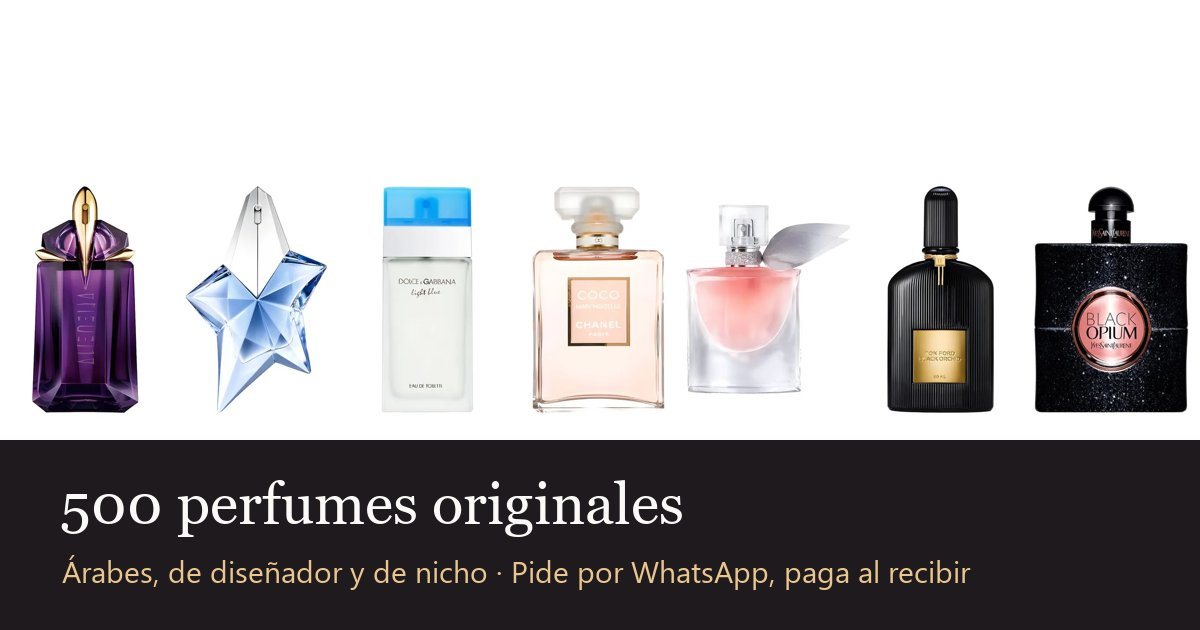
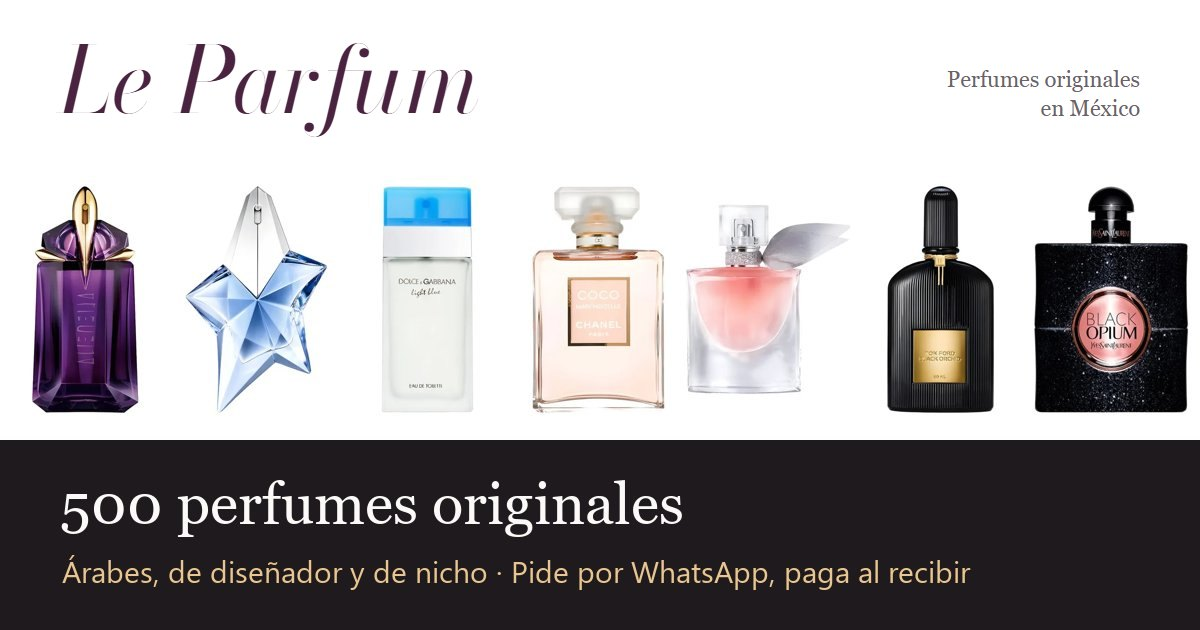
Publicar tienda 2026-11-26 10:51

Changed region(s): [[0.1542, 0.0603, 0.4008, 0.2111], [0.8017, 0.1206, 0.9558, 0.181], [0.0308, 0.0603, 0.1233, 0.181]]

diff --git a/tienda.js b/tienda.js
@@ -13,14 +13,20 @@
     Especiada: '#A8553C', 'Ámbar': '#B97A2B', 'Acuática': '#6AA3C4', Oud: '#5A3A2E' };
   const PARA = { mujer: 'Para ella', hombre: 'Para él', unisex: 'Para todos' };
   const CATEGORIAS = [['todos', 'Todos'], ['mujer', 'Mujer'], ['hombre', 'Hombre'], ['unisex', 'Unisex'],
-    ['arabe', 'Árabes'], ['disenador', 'Diseñador'], ['nicho', 'Nicho'], ['ofertas', 'Ofertas']];
+    ['arabe', 'Árabes'], ['disenador', 'Diseñador'], ['nicho', 'Nicho'], ['ofertas', 'Ofertas'], ['favoritos', '♥ Guardados']];
 
   let catalogo = [], visibles = POR_PAGINA;
   const f = { q: '', categoria: 'todos', marcas: [], familias: [], concentraciones: [], tamanos: [], min: '', max: '', soloDisponibles: false, orden: 'destacados' };
   let carrito = [];
   try { carrito = JSON.parse(localStorage.getItem('tienda_carrito') || '[]'); } catch { carrito = []; }
+  // Favoritos: el visitante marca con ♥ los que le gustan y los vuelve a encontrar en la pestaña «Guardados»,
+  // aunque cierre la página (se guardan en su propio navegador, no en ningún servidor).
+  let favs;
+  try { favs = new Set(JSON.parse(localStorage.getItem('tienda_favoritos') || '[]').map(String)); } catch { favs = new Set(); }
 
   const nombreCompleto = (p) => `${p.marca} ${p.nombre}`;
+  const corazon = (p) => `<button class="fav" data-fav="${p.id}" aria-pressed="${favs.has(String(p.id))}" aria-label="Guardar ${esc(nombreCompleto(p))} en favoritos">
+    <svg viewBox="0 0 24 24" aria-hidden="true"><path d="M12 20s-7-4.4-7-10a4 4 0 0 1 7-2.6A4 4 0 0 1 19 10c0 5.6-7 10-7 10z"/></svg></button>`;
   const waLink = (texto) => `https://wa.me/${WA}?text=${encodeURIComponent(texto)}`;
 
   // ── Imagen o frasco dibujado si todavía no hay foto ─────────────────────
@@ -53,9 +59,22 @@
     casillas('#f-familias', 'familias', 'familia', unicos('familia').sort());
     casillas('#f-concentraciones', 'concentraciones', 'concentracion', unicos('concentracion').sort());
     casillas('#f-tamanos', 'tamanos', 'ml', unicos('ml').sort((a, b) => a - b), (v) => v + ' ml');
-    const hay = (c) => c === 'todos' || catalogo.some((p) => p.genero === c || p.tipo === c || (c === 'ofertas' && p.precio_antes > p.precio));
+    armarPestanas();
+  }
+  function armarPestanas() {
+    const hay = (c) => c === 'todos' || c === f.categoria || (c === 'favoritos' ? favs.size > 0
+      : catalogo.some((p) => p.genero === c || p.tipo === c || (c === 'ofertas' && p.precio_antes > p.precio)));
     $('#categorias').innerHTML = CATEGORIAS.filter(([v]) => hay(v)).map(([v, t]) =>
-      `<button class="pestana${v === f.categoria ? ' activa' : ''}" data-cat="${v}" aria-pressed="${v === f.categoria}">${t}</button>`).join('');
+      `<button class="pestana${v === f.categoria ? ' activa' : ''}" data-cat="${v}" aria-pressed="${v === f.categoria}">${t}${v === 'favoritos' ? ` (${favs.size})` : ''}</button>`).join('');
+  }
+  function alternarFav(id) {
+    id = String(id);
+    if (favs.has(id)) { favs.delete(id); aviso('Quitado de tus guardados'); } else { favs.add(id); aviso('Guardado: lo encuentras en la pestaña ♥ Guardados'); }
+    try { localStorage.setItem('tienda_favoritos', JSON.stringify([...favs])); } catch { /* sin espacio: siguen en memoria */ }
+    $$(`[data-fav="${id}"]`).forEach((b) => b.setAttribute('aria-pressed', favs.has(id)));
+    if (f.categoria === 'favoritos' && !favs.size) f.categoria = 'todos';
+    armarPestanas();
+    if (f.categoria === 'favoritos' || f.categoria === 'todos') pintar();
   }
 
   function activos() {
@@ -73,7 +92,7 @@
   function tarjeta(p) {
     const d = L.disponibilidad(p);
     const oferta = p.precio_antes > p.precio;
-    return `<article class="tarjeta" data-id="${p.id}">
+    return `<article class="tarjeta" data-id="${p.id}">${corazon(p)}
       <button class="foto" data-ver="${p.id}" aria-label="Ver ${esc(nombreCompleto(p))}">${imagen(p)}
         ${oferta ? `<span class="sello">Oferta</span>` : ''}</button>
       <div class="datos-tarjeta">
@@ -89,7 +108,9 @@
   }
 
   function pintar() {
-    const lista = L.filtrar(catalogo, f);
+    const lista = f.categoria === 'favoritos'
+      ? L.filtrar(catalogo, { ...f, categoria: 'todos' }).filter((p) => favs.has(String(p.id)))
+      : L.filtrar(catalogo, f);
     $('#conteo').textContent = `${lista.length} ${lista.length === 1 ? 'perfume' : 'perfumes'}`;
     $('#ver-resultados').textContent = `Ver ${lista.length} ${lista.length === 1 ? 'perfume' : 'perfumes'}`;
     $('#rejilla').innerHTML = lista.slice(0, visibles).map(tarjeta).join('');
@@ -97,6 +118,9 @@
     $('#mas').hidden = quedan <= 0;
     $('#mas').textContent = `Mostrar más (${quedan > 0 ? quedan : 0} restantes)`;
     $('#vacio').hidden = lista.length > 0;
+    $('#vacio-texto').textContent = f.categoria === 'favoritos'
+      ? 'Ninguno de tus guardados coincide con estos filtros.'
+      : 'Prueba con otra palabra o quita algún filtro. Si buscas uno que no está, escríbenos y lo conseguimos.';
     $$('.pestana').forEach((b) => { const a = b.dataset.cat === f.categoria; b.classList.toggle('activa', a); b.setAttribute('aria-pressed', a); });
     $$('.tira').forEach((b) => { const a = f.familias.includes(b.dataset.familia); b.classList.toggle('activa', a); b.setAttribute('aria-pressed', a); });
     activos();
@@ -113,7 +137,7 @@
       .sort(L.ORDENES.populares).slice(0, 4);
     const detalles = [p.concentracion, p.ml && p.ml + ' ml', PARA[p.genero], p.anio && `Lanzado en ${p.anio}`].filter(Boolean);
     $('#ficha-contenido').innerHTML = `
-      <div class="ficha-foto">${imagen(p, true)}</div>
+      <div class="ficha-foto">${imagen(p, true)}${corazon(p)}</div>
       <div class="ficha-texto">
         <p class="f-marca">${esc(p.marca)}</p>
         <h2 id="ficha-titulo">${esc(p.nombre)}</h2>
@@ -206,6 +230,53 @@
     } finally { btn.disabled = false; }
   }
 
+  // ── «¿Qué perfume me va?»: tres preguntas que se traducen a los mismos filtros del catálogo ─────
+  // No inventa nada: cada respuesta pone un filtro que el visitante después ve (y puede quitar) en el catálogo.
+  const OLORES = [
+    ['Flores', 'Rosa, jazmín, flor de azahar', ['Floral']],
+    ['Dulce', 'Vainilla, caramelo, chocolate', ['Dulce']],
+    ['Fresco y limpio', 'Como recién bañado: limón, lavanda, menta', ['Cítrica', 'Aromática', 'Fresca']],
+    ['Cálido, para la noche', 'Ámbar, especias, incienso', ['Oriental']],
+    ['Madera y cuero', 'Sándalo, cedro, cuero, oud', ['Amaderada', 'Cuero y oud']],
+    ['Frutal', 'Durazno, frutos rojos, piña', ['Frutal']],
+  ];
+  const PRESUPUESTOS = [['Hasta $1,999', '', 1999], ['De $2,000 a $3,000', 2000, 3000], ['Más de $3,000', 3000, ''], ['Me da igual', '', '']];
+  const quiz = { paso: 0, categoria: 'todos', familias: [], min: '', max: '' };
+  function pintarQuiz() {
+    const familiasHay = new Set(catalogo.map((p) => p.familia));
+    const pasos = [
+      ['¿Para quién es?', [['Para ella', 'mujer'], ['Para él', 'hombre'], ['Me da igual', 'todos']].map(([t, v]) =>
+        `<button class="opcion-quiz" data-q="categoria" data-v="${v}">${t}</button>`)],
+      ['¿Qué olor te gusta más?', OLORES.map(([t, d, fs], i) => fs.some((x) => familiasHay.has(x))
+        ? `<button class="opcion-quiz" data-q="olor" data-v="${i}"><b>${t}</b><small>${d}</small></button>` : '')],
+      ['¿Cuánto quieres gastar?', PRESUPUESTOS.map(([t], i) => `<button class="opcion-quiz" data-q="precio" data-v="${i}">${t}</button>`)],
+    ];
+    const [titulo, opciones] = pasos[quiz.paso];
+    $('#quiz-paso').textContent = `Pregunta ${quiz.paso + 1} de ${pasos.length}`;
+    $('#titulo-quiz').textContent = titulo;
+    $('#quiz-opciones').innerHTML = opciones.join('');
+    $('#quiz-atras').hidden = quiz.paso === 0;
+  }
+  function responderQuiz(q, v) {
+    if (q === 'categoria') quiz.categoria = v;
+    if (q === 'olor') quiz.familias = OLORES[+v][2];
+    if (q === 'precio') [, quiz.min, quiz.max] = PRESUPUESTOS[+v];
+    if (quiz.paso < 2) { quiz.paso += 1; pintarQuiz(); return; }
+    // Se aplica como filtros normales, para que el visitante vea por qué salen esos y pueda cambiarlos.
+    const familias = quiz.familias.filter((x) => catalogo.some((p) => p.familia === x));
+    Object.assign(f, { q: '', categoria: quiz.categoria, marcas: [], familias, concentraciones: [], tamanos: [],
+      min: String(quiz.min), max: String(quiz.max), soloDisponibles: false, orden: 'populares' });
+    let n = L.filtrar(catalogo, f).length, relajado = false;
+    if (!n && (f.min || f.max)) { f.min = f.max = ''; n = L.filtrar(catalogo, f).length; relajado = true; }
+    $('#buscar').value = ''; $('#orden').value = 'populares'; $('#solo-disponibles').checked = false;
+    $('#precio-min').value = f.min; $('#precio-max').value = f.max;
+    $$('#filtros input[type=checkbox][data-campo]').forEach((i) => (i.checked = i.dataset.campo === 'familias' && familias.includes(i.value)));
+    cerrar('#capa-quiz'); repintar();
+    $('#catalogo').scrollIntoView({ behavior: 'smooth' });
+    aviso(relajado ? `En ese precio no hay ninguno: te muestro los ${n} de ese olor, los más populares primero`
+      : `${n} perfumes van contigo, los más populares primero`);
+  }
+
   // ── Ventanas ────────────────────────────────────────────────────────────
   let antesDeAbrir = null;
   function abrir(sel) {
@@ -270,6 +341,8 @@
 
     // Clics dentro del catálogo, la ficha y el carrito (un solo escuchador por zona).
     document.addEventListener('click', (e) => {
+      const fav = e.target.closest('[data-fav]');
+      if (fav) { alternarFav(fav.dataset.fav); return; }
       const ver = e.target.closest('[data-ver]'), ag = e.target.closest('[data-agregar]'), comp = e.target.closest('[data-compartir]');
       if (ag) { agregar(ag.dataset.agregar); return; }
       if (ver) { abrirFicha(ver.dataset.ver); return; }
@@ -287,6 +360,9 @@
       carrito = carrito.filter((x) => x.cantidad > 0); guardarCarrito(); pintarCarrito();
     });
     $('#abrir-carrito').addEventListener('click', () => abrir('#capa-carrito'));
+    $('#abrir-quiz').addEventListener('click', () => { quiz.paso = 0; pintarQuiz(); abrir('#capa-quiz'); });
+    $('#quiz-opciones').addEventListener('click', (e) => { const b = e.target.closest('[data-q]'); if (b) responderQuiz(b.dataset.q, b.dataset.v); });
+    $('#quiz-atras').addEventListener('click', () => { quiz.paso = Math.max(0, quiz.paso - 1); pintarQuiz(); });
     $('#ir-pagar').addEventListener('click', () => { cerrar('#capa-carrito'); abrir('#capa-pedido'); });
     $('#form-pedido').addEventListener('submit', confirmar);
     $('#whatsapp-listo').addEventListener('click', () => {

diff --git a/index.html b/index.html
@@ -18,6 +18,7 @@
   <link rel="preconnect" href="https://fonts.gstatic.com" crossorigin>
   <link href="https://fonts.googleapis.com/css2?family=Bodoni+Moda:ital,opsz,wght@0,6..96,400;0,6..96,500;1,6..96,400&family=Jost:wght@300;400;500&display=swap" rel="stylesheet">
   <link rel="stylesheet" href="estilos.css">
+  <script type="application/ld+json">{"@context":"https://schema.org","@type":"Store","name":"Le Parfum","description":"Perfumes originales árabes, de diseñador y de nicho. Pedidos por WhatsApp y pago contra entrega.","areaServed":"MX","currenciesAccepted":"MXN","paymentAccepted":"Efectivo, transferencia"}</script>
 </head>
 <body class="tienda">
   <a class="saltar" href="#catalogo">Ir al catálogo</a>
@@ -42,9 +43,16 @@
         <h1 id="titulo-portada">Encuentra tu perfume por cómo huele</h1>
         <p id="lema" class="lema"></p>
         <p class="portada-ayuda">Toca una tira para ver los perfumes de esa familia. <span id="total-catalogo">500</span> perfumes, y todos se pueden pedir: si no lo tenemos, lo conseguimos.</p>
+        <button id="abrir-quiz" class="btn btn-borde quiz-boton">¿No sabes cuál elegir? Responde 3 preguntas</button>
       </div>
       <div id="tiras" class="tiras" aria-label="Familias de aroma"></div>
     </section>
+
+    <ul class="promesas" aria-label="Lo que te prometemos">
+      <li><b>Originales</b><span>Perfumes de la marca, nunca imitaciones</span></li>
+      <li><b>Pagas al recibir</b><span>En efectivo o por transferencia, cuando lo tienes en la mano</span></li>
+      <li><b>¿No está? Lo conseguimos</b><span>Pídelo aunque diga «por encargo» y te decimos el plazo</span></li>
+    </ul>
 
     <section id="catalogo" class="catalogo" aria-label="Catálogo">
       <nav id="categorias" class="pestanas" aria-label="Categorías"></nav>
@@ -92,7 +100,7 @@
           <div id="rejilla" class="rejilla"></div>
           <div id="vacio" class="vacio" hidden>
             <p>Ningún perfume coincide con esa búsqueda.</p>
-            <p>Prueba con otra palabra o quita algún filtro. Si buscas uno que no está, escríbenos y lo conseguimos.</p>
+            <p id="vacio-texto">Prueba con otra palabra o quita algún filtro. Si buscas uno que no está, escríbenos y lo conseguimos.</p>
             <button id="limpiar-vacio" class="btn btn-borde">Quitar filtros</button>
           </div>
           <button id="mas" class="btn btn-borde mas" hidden>Mostrar más</button>
@@ -180,6 +188,17 @@
       <h2 id="titulo-listo">¡Pedido recibido!</h2>
       <p id="texto-listo"></p>
       <a id="whatsapp-listo" class="btn btn-whatsapp ancho" target="_blank" rel="noopener" hidden>Enviar mi pedido por WhatsApp</a>
+    </div>
+  </div>
+
+  <!-- ¿Qué perfume me va? -->
+  <div id="capa-quiz" class="capa" hidden>
+    <div class="panel panel-form quiz" role="dialog" aria-modal="true" aria-labelledby="titulo-quiz">
+      <button class="cerrar" data-cerrar aria-label="Cerrar">×</button>
+      <p id="quiz-paso" class="quiz-paso"></p>
+      <h2 id="titulo-quiz"></h2>
+      <div id="quiz-opciones" class="quiz-opciones"></div>
+      <button id="quiz-atras" class="enlace" hidden>Volver a la pregunta anterior</button>
     </div>
   </div>
 

diff --git a/estilos.css b/estilos.css
@@ -318,3 +318,35 @@ h1, h2, h3, h4 { margin: 0; font-weight: 400; }
 @media (prefers-reduced-motion: reduce) {
   *, *::before, *::after { animation: none !important; transition: none !important; scroll-behavior: auto !important; }
 }
+
+/* Favoritos: corazón sobre la foto (tarjeta y ficha) */
+.tarjeta, .ficha-foto { position: relative; }
+.fav { position: absolute; top: 8px; right: 8px; z-index: 2; width: 38px; height: 38px; border-radius: 50%; border: 0;
+  background: rgba(255,255,255,.86); display: grid; place-items: center; padding: 0; }
+.fav svg { width: 20px; fill: none; stroke: var(--oud); stroke-width: 1.6; transition: fill .15s, transform .2s; }
+.fav:hover svg { transform: scale(1.12); }
+.fav[aria-pressed="true"] svg { fill: var(--oud); }
+
+/* Lo que la tienda promete: tres frases verdaderas, sin iconos de relleno */
+.promesas { max-width: var(--ancho); margin: 0 auto 44px; padding: 22px max(4vw, 16px); list-style: none;
+  display: grid; grid-template-columns: repeat(3, 1fr); gap: 24px; border-top: 1px solid var(--linea); border-bottom: 1px solid var(--linea); }
+.promesas li { display: flex; flex-direction: column; gap: 2px; }
+.promesas b { font: italic 400 21px/1.2 var(--serif); color: var(--oud); }
+.promesas span { font-size: 14px; color: var(--suave); }
+
+/* ¿Qué perfume me va? */
+.quiz-boton { margin-top: 26px; }
+.quiz h2 { font: 400 30px/1.15 var(--serif); margin: 4px 0 22px; }
+.quiz-paso { margin: 0; font-size: 14px; color: var(--suave); }
+.quiz-opciones { display: grid; grid-template-columns: repeat(auto-fill, minmax(190px, 1fr)); gap: 10px; margin-bottom: 18px; }
+.opcion-quiz { text-align: left; background: var(--blanco); border: 1px solid var(--linea); border-radius: var(--r); padding: 14px 16px;
+  display: flex; flex-direction: column; gap: 3px; min-height: 54px; justify-content: center; font-size: 16px; }
+.opcion-quiz:hover { border-color: var(--oud); background: #FBF7FA; }
+.opcion-quiz b { font-weight: 500; }
+.opcion-quiz small { color: var(--suave); font-size: 13px; }
+
+@media (max-width: 760px) {
+  .promesas { grid-template-columns: 1fr; gap: 12px; margin-bottom: 28px; }
+  .promesas li { flex-direction: row; align-items: baseline; gap: 10px; flex-wrap: wrap; }
+  .quiz-boton { width: 100%; }
+}

diff --git a/GUIA_PASOS.md b/GUIA_PASOS.md
@@ -4,9 +4,22 @@ Cada paso dice **qué haces tú**, **qué hago yo (Claude)**, **cuánto tarda** 
 Los pasos 1 a 3 son los únicos necesarios para que cualquier persona pueda ver el catálogo y pedirte.
 Hoy la tienda ya está hecha y probada: 500 perfumes con foto, 40 comprobaciones automáticas en verde.
 
+## Dónde vamos (26-nov)
+
+| paso | estado |
+|---|---|
+| 1 · datos | ✅ nombre **Le Parfum**, México, pesos mexicanos (precios ×19,64 pesos por dólar, redondeados a …99). ⏳ **faltan el WhatsApp y la transferencia** |
+| 2 · GitHub | ✅ publicada en **https://abraham02123.github.io/le-parfum/** (cuenta Abraham02123) |
+| 3 · prueba desde el móvil | ⏳ cuando esté el WhatsApp (sin él, la página dice «Modo de prueba» y los pedidos no te llegan) |
+| quitar tu nombre del enlace | ⏳ tú eliges: ver «Paso 6» |
+| mejoras de diseño | ✅ 26-nov: favoritos ♥, prueba «¿No sabes cuál elegir?», franja de promesas, imagen para compartir con el nombre |
+
+Para cambiar algo después: lo editas (o me lo pides) en `D:\tienda-perfumes` y se corre `bash publicar.sh`
+(1-2 minutos y la página se actualiza sola).
+
 ---
 
-## Paso 1 · Tus datos de la tienda — 5 minutos tuyos
+## Paso 1 · Tus datos de la tienda — 5 minutos tuyos (hecho en parte)
 
 **Qué haces tú:** mandarme UN mensaje con esto (copia y rellena):
 
@@ -108,10 +121,19 @@ aparece en tu panel y que la existencia bajó, y lo cancelo para dejarla como es
 
 ---
 
-## Paso 6 (opcional) · Dirección propia — 10 minutos tuyos y ~10-15 USD al año
+## Paso 6 (opcional) · Quitar tu nombre del enlace
 
-Por ejemplo `www.maisonparfum.com` en vez de `usuario.github.io/tienda-perfumes`. Es lo único que cuesta
-dinero y no hace falta para vender. Si lo quieres, dime y te guío.
+Hoy el enlace es `abraham02123.github.io/le-parfum`: GitHub siempre pone delante el nombre de la cuenta.
+Tres formas de quitarlo:
+
+| forma | enlace | cuesta | qué haces tú | qué hago yo |
+|---|---|---|---|---|
+| A · organización de GitHub | `leparfum-mx.github.io` | 0 | crear una «organización» gratis en github.com/organizations/plan (2 min, con tu misma cuenta) y decirme el nombre que elegiste | muevo la página ahí y compruebo que abre (5 min) |
+| B · Cloudflare Pages | `leparfum.pages.dev` | 0 | crear cuenta en Cloudflare y darme permiso para instalar su herramienta y abrir sesión | publico ahí y dejo el enlace viejo redirigiendo (10 min) |
+| C · dominio propio | `leparfum.mx` o `.com.mx` | ~300-700 pesos al año (estimación, sin comprobar precio de hoy) | comprarlo (te guío) | lo conecto (15 min + hasta 24 h que tarda en verse) |
+
+Lo que el cliente ve en A sigue diciendo «github.io»; en B dice «pages.dev»; solo C queda como una tienda
+con dirección propia.
 
 ---
 
